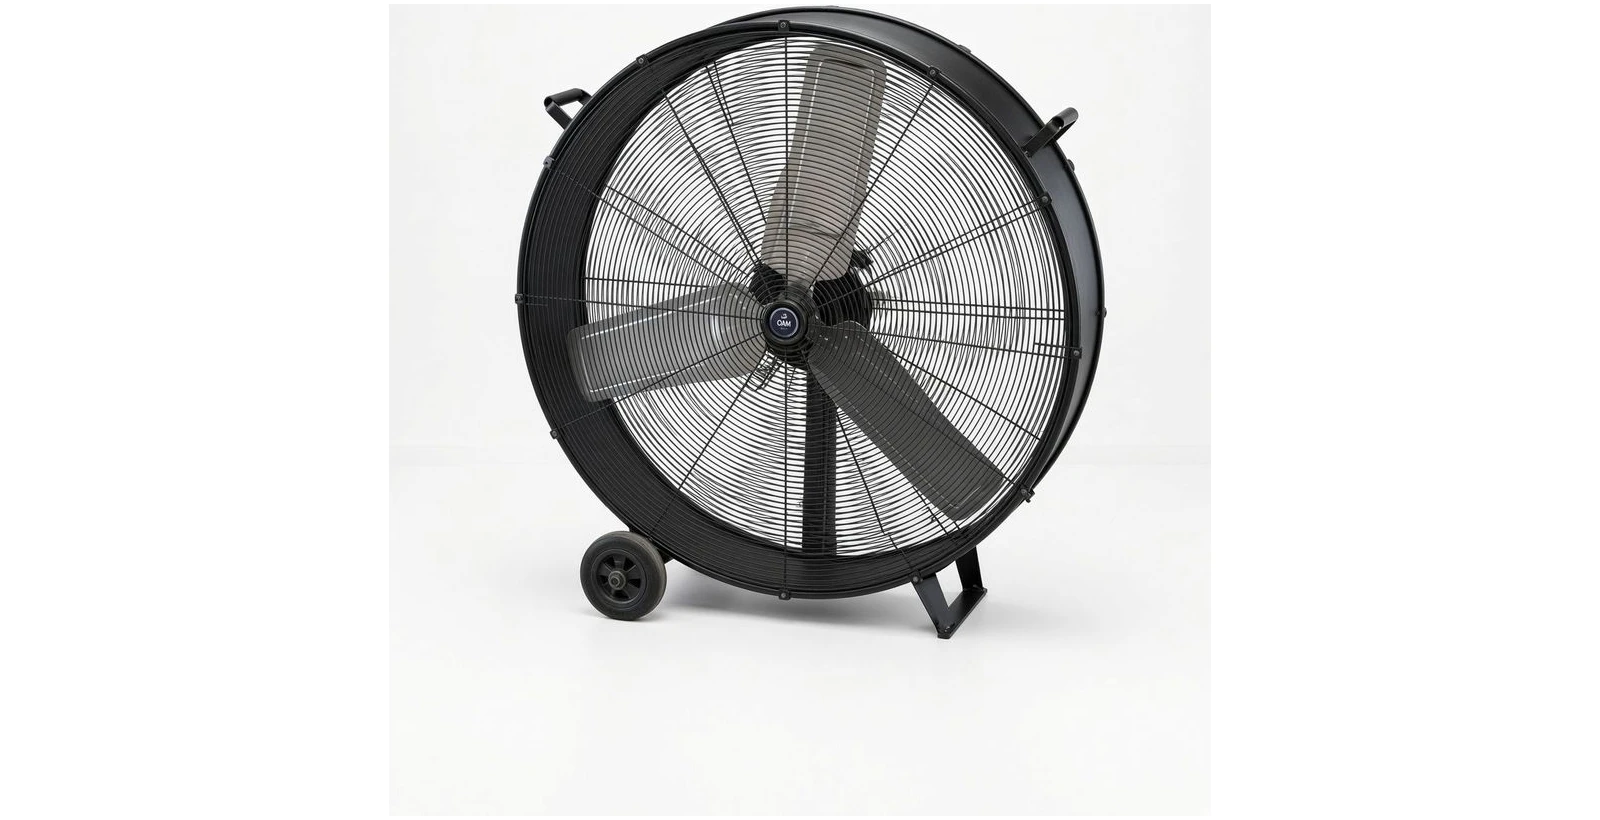
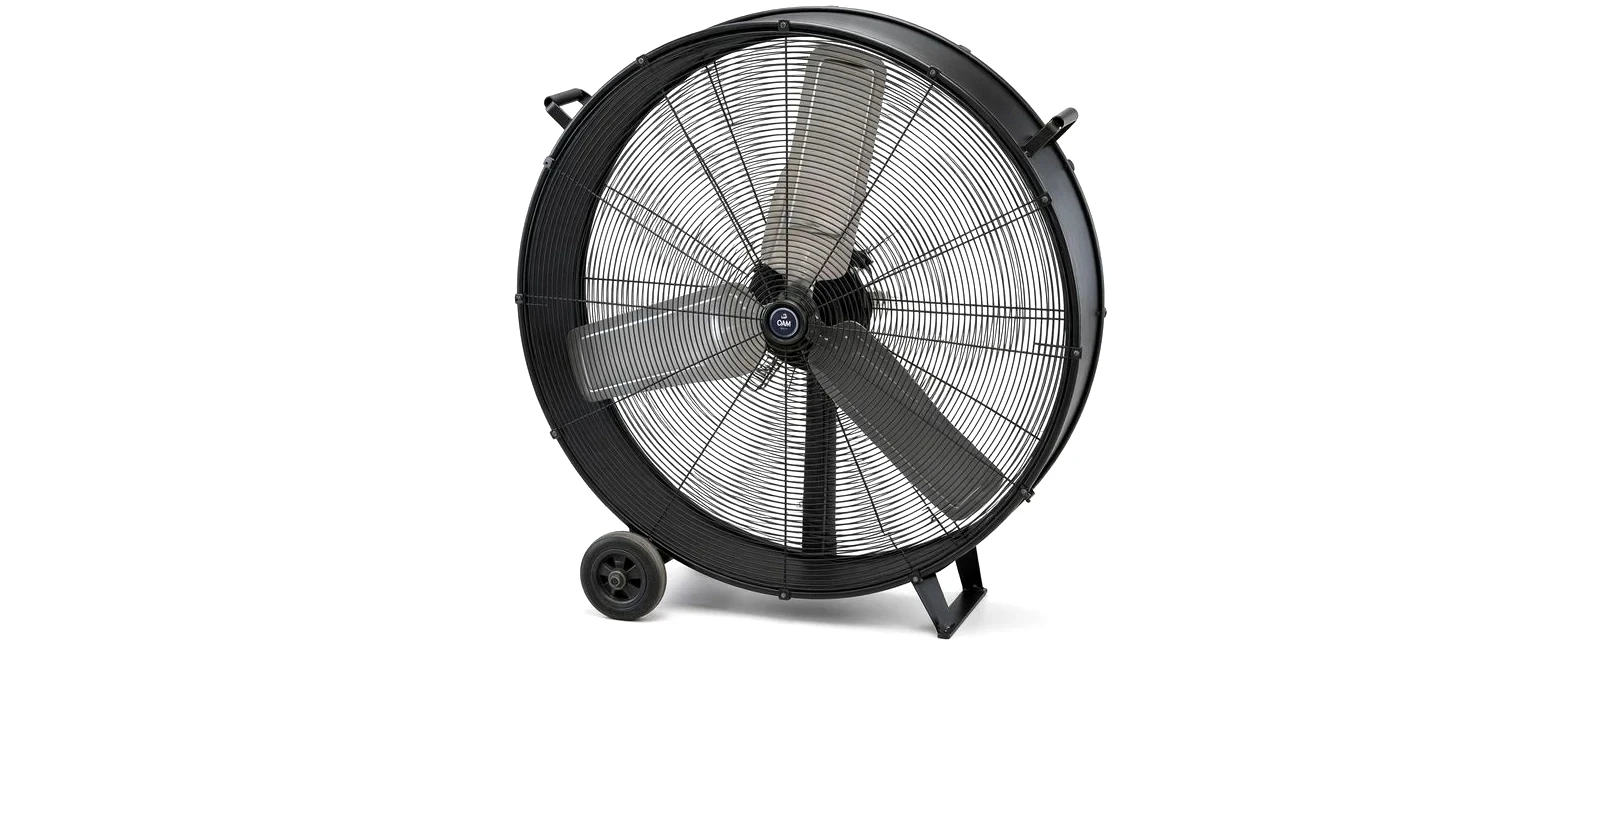
Equipos climate row: center fan, whiten bg and fade edges (no visible square)

diff --git a/css/styles.css b/css/styles.css
@@ -290,6 +290,19 @@ h1, h2, h3 { font-family: var(--serif); font-weight: 600; line-height: 1.08; let
 .equip-row-media { position: relative; min-height: 205px; background: #ffffff; overflow: hidden; }
 .equip-row-media img { position: absolute; inset: 0; width: 100%; height: 100%; object-fit: cover; object-position: center; }
 .equip-row-media--contain img { object-fit: contain; padding: 3%; }
+/* Producto centrado + bordes desvanecidos hacia el blanco (sin cuadrado visible) */
+.equip-row-media--fade { background: #ffffff; }
+.equip-row-media--fade img {
+  object-fit: contain; object-position: center; padding: 4%;
+  -webkit-mask-image:
+    linear-gradient(to right, transparent 0, #000 9%, #000 91%, transparent 100%),
+    linear-gradient(to bottom, transparent 0, #000 9%, #000 91%, transparent 100%);
+  -webkit-mask-composite: source-in;
+          mask-image:
+    linear-gradient(to right, transparent 0, #000 9%, #000 91%, transparent 100%),
+    linear-gradient(to bottom, transparent 0, #000 9%, #000 91%, transparent 100%);
+          mask-composite: intersect;
+}
 .equip-row-body { display: flex; flex-direction: column; justify-content: center; align-items: flex-start; gap: 7px; padding: clamp(16px, 2.2vw, 28px); }
 .equip-eyebrow { font-size: 0.66rem; letter-spacing: 0.2em; text-transform: uppercase; color: #9c7d1e; font-weight: 500; }
 .equip-row-body h3 { font-size: clamp(1.2rem, 1.9vw, 1.55rem); line-height: 1.12; color: var(--on-cream); }

diff --git a/index.html b/index.html
@@ -138,7 +138,7 @@
           </div>
         </article>
         <article class="equip-row equip-row--reverse reveal">
-          <div class="equip-row-media media-reveal"><img src="assets/img/gallery/climatizacion.webp" alt="Climatización" loading="lazy" /></div>
+          <div class="equip-row-media equip-row-media--fade media-reveal"><img src="assets/img/gallery/climatizacion.webp" alt="Climatización" loading="lazy" /></div>
           <div class="equip-row-body">
             <span class="equip-eyebrow" data-i18n="home.cat.climate.title">Climatización</span>
             <h3 data-i18n="home.diff.clima.title">Ventiladores, climatizadores y estufas</h3>
